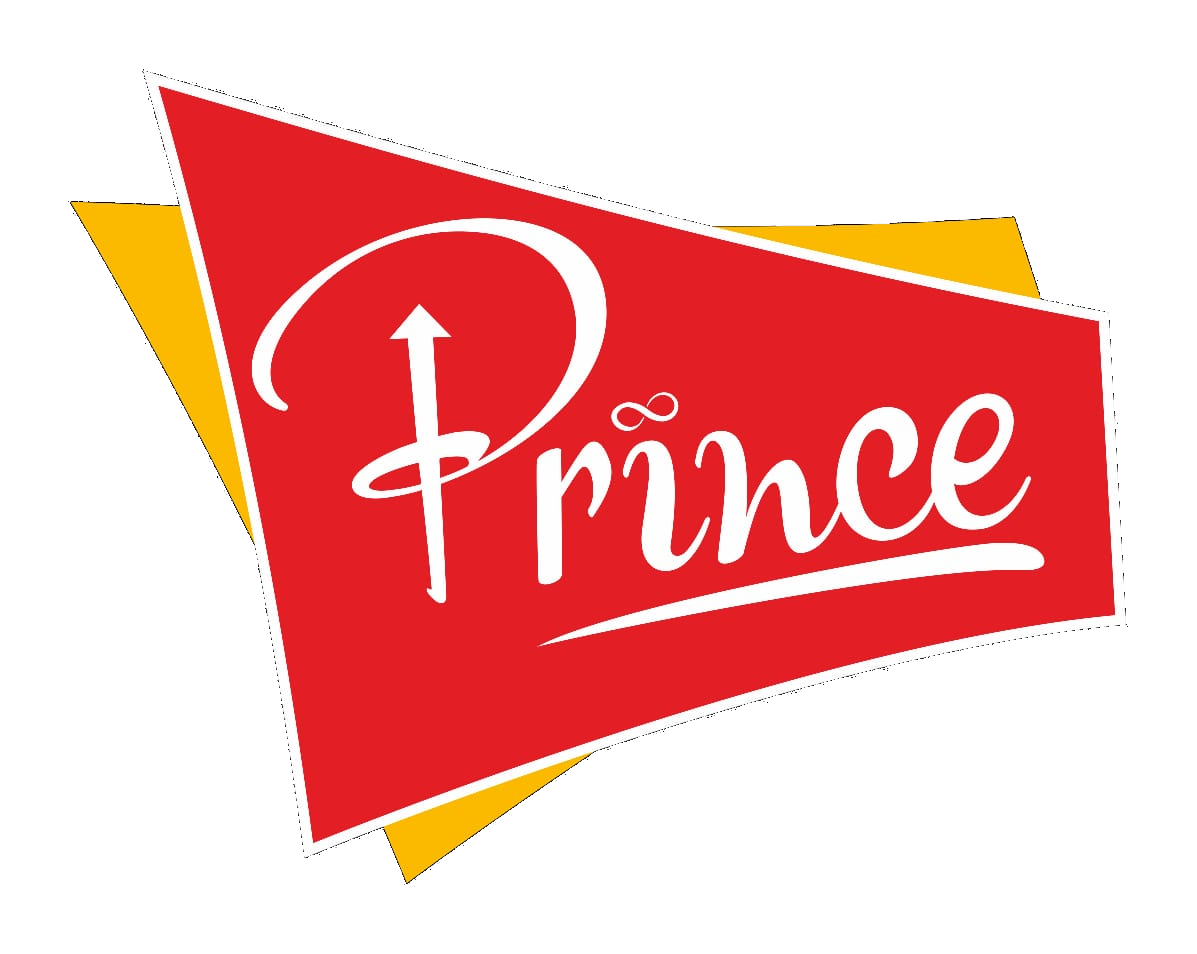
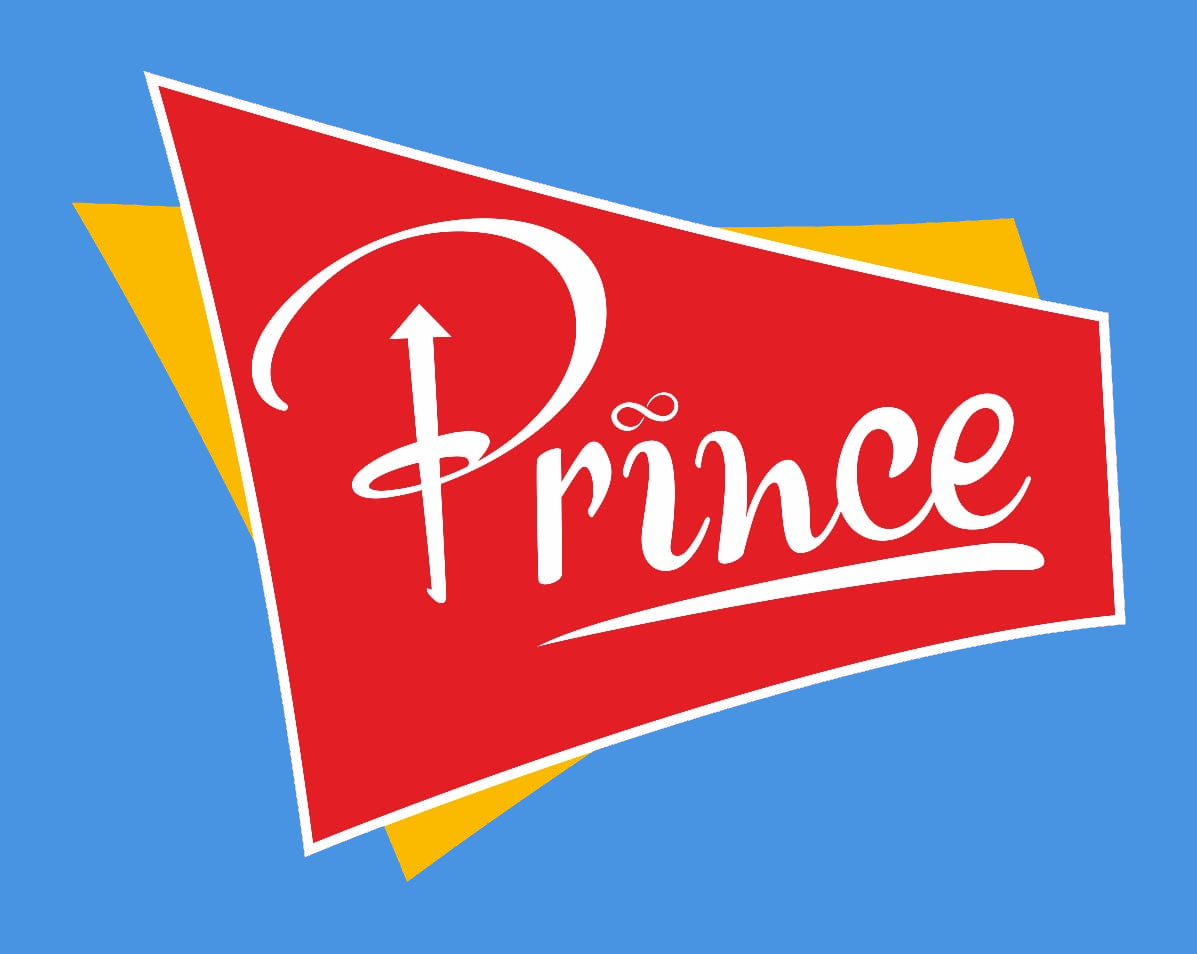
Added image support for OG

diff --git a/index.html b/index.html
@@ -9,6 +9,9 @@
   <meta property="og:type" content="restraunt">
   <meta property="og:description"
     content="Website for Prince Food Square, you can view our menu, order food or daily needs items.">
+  <meta property="og:image" content="https://princefoodsqaure.github.io/website/img/icon.png">
+  <meta property="og.image:width" content="1280">
+  <meta property="og.image:height" content="720">
 
   <meta charset="utf-8">
   <meta name="viewport" content="width=device-width, initial-scale=1, shrink-to-fit=no">
